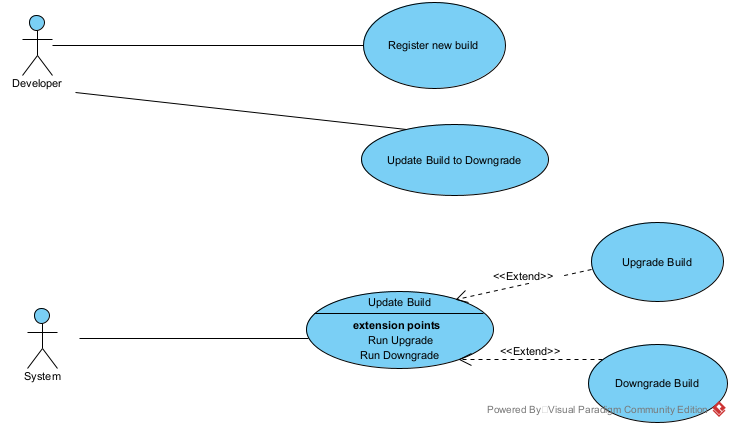
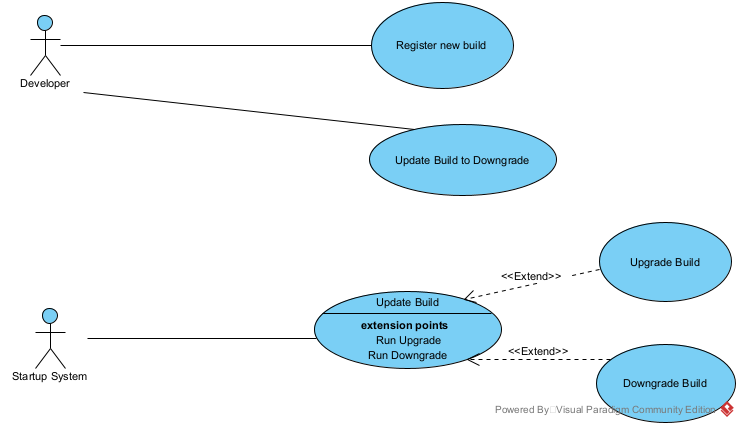
Alteração do nome do ator de System para Startup System

diff --git a/source/upgrade-configuration/src/main/java/br/puc/rio/business/Downgrade.java b/source/upgrade-configuration/src/main/java/br/puc/rio/business/Downgrade.java
@@ -29,12 +29,7 @@ public class Downgrade implements Update {
 	private List<BuildInformation> buildsInformationToRevert;
 	private static final Logger logger = LogManager.getLogger(Downgrade.class);
 	
-	/**
-	 * Constructor Method.
-	 * @param upgradeConfiguration
-	 * @param entityManager
-	 * @param buildInformationDao
-	 */
+	
 	public Downgrade(UpgradeConfiguration upgradeConfiguration, EntityManager entityManager, BuildInformationDao buildInformationDao) {
 		this.entityManager = entityManager;
 		this.buildInformationDao = buildInformationDao;
